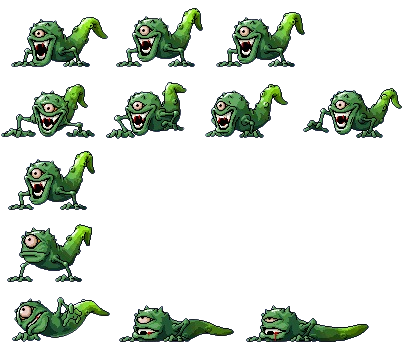
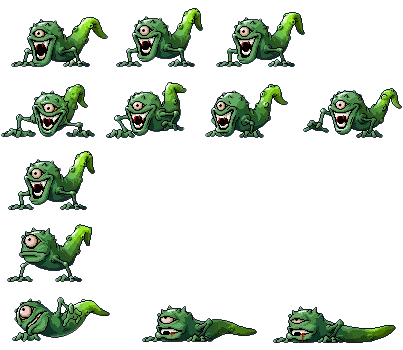
add dead animation to forest monsters

Changed region(s): [[0.2978, 0.8571, 0.9826, 1.0]]

diff --git a/oop2_proj/src/FileManager.cpp b/oop2_proj/src/FileManager.cpp
@@ -361,46 +361,43 @@ void FileManager::createPlayerAnimeData()
 
 void FileManager::createForestMonstersAnimeData()
 {
-
 	setCurrentData(m_monsterData[LEVEL1][MONSTER1], Stay, movableAnimationSet
-	({ 60, 55 }, { 1, 1 }, 5,3, Stay), 0.01f, false);
+	({ 60, 55 }, { 1, 1 }, 5, 3, Stay), 0.01f, false);
 
 	setCurrentData(m_monsterData[LEVEL1][MONSTER1], Walk, movableAnimationSet
-	({ 60, 55 }, { 3, 60 },5, 4, Walk), 0.01f, false);
+	({ 60, 55 }, { 3, 60 }, 5, 4, Walk), 0.01f, false);
 
-	
 	setCurrentData(m_monsterData[LEVEL1][MONSTER1], Hurt, movableAnimationSet
-	({ 60, 55 }, { 4, 117 },0, 1,Hurt), 0.05f, true);
+	({ 60, 55 }, { 4, 117 }, 0, 1, Hurt), 0.05f, true);
 
-	//setCurrentData(m_monsterData[LEVEL1][MONSTER1], Dead, movableAnimationSet
-	//({ 50, 30 }, { 4 117 }, { 0, 0 }, 5,Dead), 0.15f, true);
+	setCurrentData(m_monsterData[LEVEL1][MONSTER1], Dead, movableAnimationSet
+	({ 60, 55 }, { 4, 182 }, 5, 4, Dead), 0.05f, true);
+	
 
 	setCurrentData(m_monsterData[LEVEL1][MONSTER2], Stay, movableAnimationSet
-	({ 82, 82 }, { 1, 1 },5, 4, Stay), 0.01f, false);
+	({ 82, 82 }, { 1, 1 }, 5, 4, Stay), 0.01f, false);
 
 	setCurrentData(m_monsterData[LEVEL1][MONSTER2], Walk, movableAnimationSet
 	({ 82, 82 }, { 1, 90 }, 5, 4, Walk), 0.01f, false);
 
-	
 	setCurrentData(m_monsterData[LEVEL1][MONSTER2], Hurt, movableAnimationSet
-	({ 82, 82 }, { 1, 177 },0, 1,Hurt), 0.05f, true);
+	({ 82, 82 }, { 1, 177 }, 0, 1, Hurt), 0.05f, true);
 
-	//setCurrentData(m_monsterData[LEVEL1][MONSTER2], Operation::Dead, movableAnimationSet
-	//({ 50, 30 }, { 0, 443 }, { 0, 0 }, 5,
-	//	Operation::Dead), 0.15f, true);
+	setCurrentData(m_monsterData[LEVEL1][MONSTER2], Dead, movableAnimationSet
+	({ 82, 82 }, { 1, 269 }, 4, 5, Dead), 0.05f, true);
+
 
 	setCurrentData(m_monsterData[LEVEL1][MONSTER3], Stay, movableAnimationSet
-	({ 102, 65 }, { 9, 6 },3, 3, Stay), 0.02f, false);
+	({ 102, 65 }, { 9, 6 }, 3, 3, Stay), 0.02f, false);
 
 	setCurrentData(m_monsterData[LEVEL1][MONSTER3], Walk, movableAnimationSet
 	({ 97, 60 }, { 1, 80 }, 3, 4, Walk), 0.01f, false);
 
-	setCurrentData(m_monsterData[LEVEL1][MONSTER3],Hurt, movableAnimationSet
-	({ 90, 62 }, { 4, 222 }, 0, 1,Hurt), 0.05f, true);
+	setCurrentData(m_monsterData[LEVEL1][MONSTER3], Hurt, movableAnimationSet
+	({ 90, 62 }, { 4, 222 }, 0, 1, Hurt), 0.05f, true);
 
-	//setCurrentData(m_monsterData[LEVEL1][MONSTER3], Operation::Dead, movableAnimationSet
-	//({ 50, 30 }, { 0, 443 }, { 0, 0 }, 5,
-	//	Operation::Dead), 0.15f, true);
+	setCurrentData(m_monsterData[LEVEL1][MONSTER3], Dead, movableAnimationSet
+	({ 130, 45 }, { 8, 296 }, 0, 3, Dead), 0.05f, true);
 }
 //----------------------------------------------------
 
@@ -417,9 +414,8 @@ void FileManager::createSnowMonstersAnimeData()
 	setCurrentData(m_monsterData[LEVEL2][MONSTER1], Hurt, movableAnimationSet
 	({ 37, 35 }, { 1, 96 }, 0, 1,	Hurt), 0.05f, true);
 
-	//setCurrentData(m_monsterData[LEVEL2][MONSTER1], Operation::Dead, movableAnimationSet
-	//({ 50, 30 }, { 0, 443 }, { 0, 0 }, 5,
-	//	Operation::Dead), 0.15f, true);
+	setCurrentData(m_monsterData[LEVEL2][MONSTER1], Dead, movableAnimationSet
+	({ 37, 35 }, { 1, 96 }, 0, 1, Dead), 0.15f, true);
 
 	setCurrentData(m_monsterData[LEVEL2][MONSTER2], Stay, movableAnimationSet
 	({ 112, 65 }, { 13, 36 },40,4, Stay), 0.02f, false);
@@ -431,9 +427,8 @@ void FileManager::createSnowMonstersAnimeData()
 	setCurrentData(m_monsterData[LEVEL2][MONSTER2], Hurt, movableAnimationSet
 	({ 110, 50 }, { 10, 260 }, 0, 1,	Hurt), 0.05f, true);
 
-	//setCurrentData(m_monsterData[LEVEL2][MONSTER2], Operation::Dead, movableAnimationSet
-	//({ 50, 30 }, { 10, 443 }, { 0, 0 }, 5,
-	//	Operation::Dead), 0.15f, true);
+	setCurrentData(m_monsterData[LEVEL2][MONSTER2], Dead, movableAnimationSet
+	({ 110, 50 }, { 10, 260 }, 0, 1, Dead), 0.15f, true);
 
 	setCurrentData(m_monsterData[LEVEL2][MONSTER3], Stay, movableAnimationSet
 	({ 38, 40 }, { 1, 6 }, 8,3, Stay), 0.02f, false);
@@ -445,9 +440,9 @@ void FileManager::createSnowMonstersAnimeData()
 	setCurrentData(m_monsterData[LEVEL2][MONSTER3], Hurt, movableAnimationSet
 	({ 38, 40 }, { 2, 105 }, 3, 2,Hurt), 0.05f, true);
 
-	//setCurrentData(m_monsterData[LEVEL2][MONSTER3], Operation::Dead, movableAnimationSet
-	//({ 50, 30 }, { 0, 443 }, { 0, 0 }, 5,
-	//	Operation::Dead), 0.15f, true);
+	setCurrentData(m_monsterData[LEVEL2][MONSTER3], Dead, movableAnimationSet
+	({ 38, 40 }, { 2, 105 }, 3, 2, Dead), 0.15f, true);
+
 }
 //----------------------------------------------------
 
@@ -463,9 +458,8 @@ void FileManager::createDesertMonstersAnimeData()
 	setCurrentData(m_monsterData[LEVEL3][MONSTER1], Hurt, movableAnimationSet
 	({ 67, 90 }, { 4, 166 }, 0, 1,	Hurt), 0.05f, true);
 
-	//setCurrentData(m_monsterData[LEVEL3][MONSTER1], Operation::Dead, movableAnimationSet
-	//({ 50, 30 }, { 0, 443 }, { 0, 0 }, 5,
-	//	Operation::Dead), 0.15f, true);
+	setCurrentData(m_monsterData[LEVEL3][MONSTER1], Dead, movableAnimationSet
+	({ 67, 90 }, { 4, 166 }, 0, 1, Dead), 0.15f, true);
 
 	setCurrentData(m_monsterData[LEVEL3][MONSTER2], Stay, movableAnimationSet
 	({ 48, 94 }, { 1, 1 },11,9, Stay), 0.01f, false);
@@ -478,23 +472,19 @@ void FileManager::createDesertMonstersAnimeData()
 	setCurrentData(m_monsterData[LEVEL3][MONSTER2], Hurt, movableAnimationSet
 	({ 49, 90 }, { 15, 180 }, 0, 1,Hurt), 0.05f, true);
 
-	//setCurrentData(m_monsterData[LEVEL3][MONSTER2], Operation::Dead, movableAnimationSet
-	//({ 50, 30 }, { 0, 443 }, { 0, 0 }, 5,
-	//	Operation::Dead), 0.15f, true);
+	setCurrentData(m_monsterData[LEVEL3][MONSTER2], Dead, movableAnimationSet
+	({ 49, 90 }, { 15, 180 }, 0, 1, Dead), 0.15f, true);
 
 	setCurrentData(m_monsterData[LEVEL3][MONSTER3], Stay, movableAnimationSet
 	({ 55, 42 }, { 8, 11 }, 6,11, Stay), 0.01f, false);
 
-	//
 	setCurrentData(m_monsterData[LEVEL3][MONSTER3], Walk, movableAnimationSet
 	({ 55, 42 }, { 6, 67 }, 3,12, Walk), 0.01f, false);
-
 	 
 	setCurrentData(m_monsterData[LEVEL3][MONSTER3], Hurt, movableAnimationSet
 	({ 55, 42 }, { 4, 260 }, 0, 1,Hurt), 0.05f, true);
 
-	//setCurrentData(m_monsterData[LEVEL3][MONSTER3], Operation::Dead, movableAnimationSet
-	//({ 50, 30 }, { 0, 443 }, { 0, 0 }, 5,
-	//	Operation::Dead), 0.15f, true);
+	setCurrentData(m_monsterData[LEVEL3][MONSTER3], Dead, movableAnimationSet
+	({ 55, 42 }, { 4, 260 }, 0, 1, Dead), 0.15f, true);
 }
 

diff --git a/oop2_proj/src/MovingSrc/Monster.cpp b/oop2_proj/src/MovingSrc/Monster.cpp
@@ -97,7 +97,9 @@ void Monster::hit()
 //------------------------------------------------------------------------
 void Monster::handleHit()
 {
-		m_life - PLAYER_DAMAGE <= 0 ? m_life = 0 : m_life -= PLAYER_DAMAGE;
+	static int deadCounter = 0;
+
+	m_life - PLAYER_DAMAGE <= 0 ? m_life = 0 : m_life -= PLAYER_DAMAGE;
 
 		if (isAlive())
 		{
@@ -107,9 +109,16 @@ void Monster::handleHit()
 		}
 		else
 		{
-			//e.playDeathSound();
-			//m_animation.operation(Operation::Dead);
-			setToDelete();
+			if (deadCounter==0)
+			{
+				deadCounter = 10;
+				//e.playDeathSound();
+				m_animation.operation(Operation::Dead);
+			}
+			else if(deadCounter>1)
+				deadCounter--;
+			else
+			    setToDelete();
 		}
 }
 //------------------------------- getMove --------------------------------
